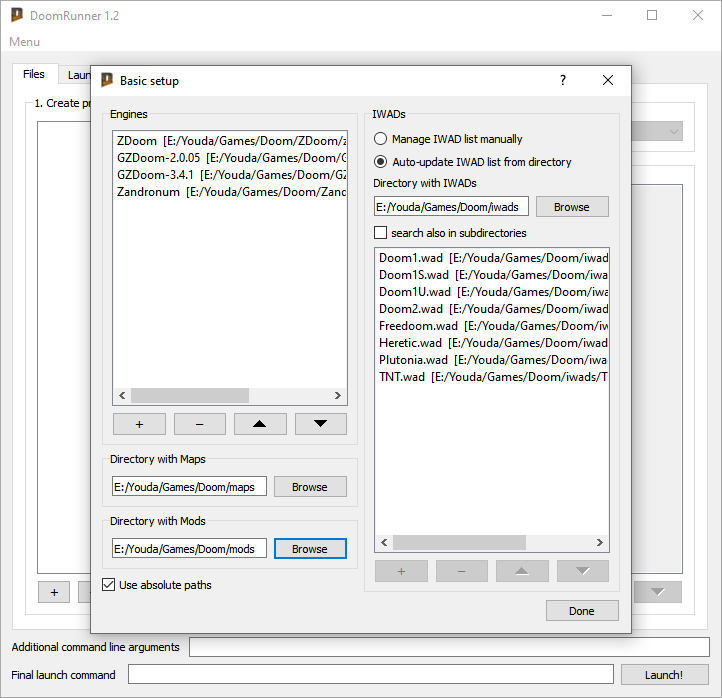
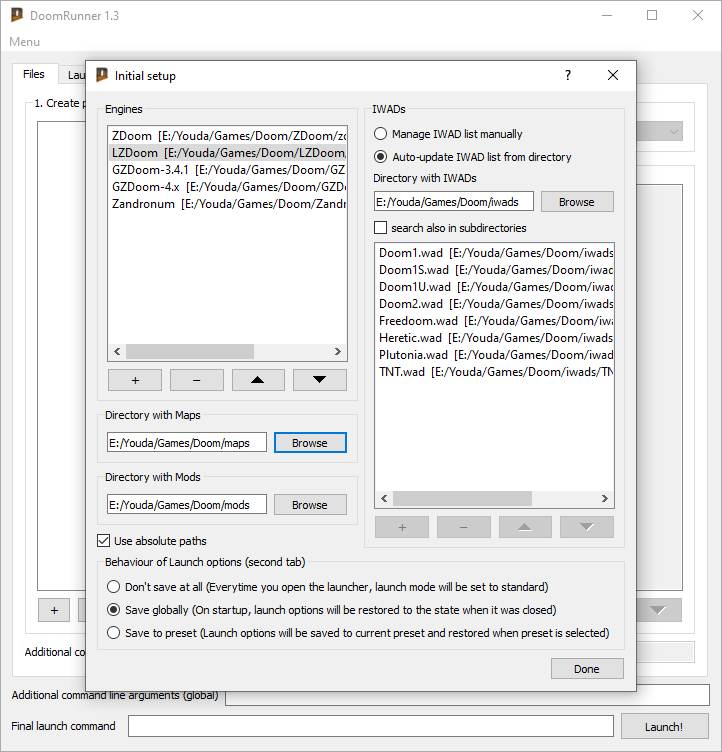
updated screenshots and README

Changed region(s): [[0.0, 0.0, 0.9751, 0.9928], [0.0305, 0.9628, 0.1524, 0.9928]]

diff --git a/README.md b/README.md
@@ -8,11 +8,14 @@ First you perform an initial setup, setting up the paths and adding all your Doo
 Then you create named presets for all your favourite modifications and assign them an engine, an IWAD and mod files.
 ![](Screenshots/2-MainScreen.png "Main screen")
 
-And if you wish to play multiplayer or jump into a map directly, you can do so in the second tab.
+If you wish to play multiplayer or jump into a map directly, you can do so in the second tab.
 ![](Screenshots/3-LaunchOptions.png "Launch options")
 
-You can even configure gameplay flags and compatibility flags.
+You can even configure gameplay flags and compatibility flags, with tooltips from official ZDoom wiki.
 ![](Screenshots/4-DMflags.png "DM flags")
+
+If you extract a .wad file together with an equally named .txt file (for example AV.wad and AV.txt), you can display its content by doubleclicking the wad in the map pack list.
+![](Screenshots/5-MapPackDesc.png "Map pack description")
 
 The map list and IWAD list are automatically updated from selected directory, so everytime you download a new WAD, you don't need to manually add it to the launcher. The mod list supports drag&drop from directory window and internal drag&drop for reordering the files.
 
@@ -21,9 +24,9 @@ The map list and IWAD list are automatically updated from selected directory, so
 
 Pre-compiled executables for different operating systems can be found on [release page](https://github.com/Youda008/DoomRunner/releases)
 
-I provide them only for 64-bit Windows and 64-bit Linux, because in 2019 there shouldn't be anyone still using 32-bit computer. If you really need a 32-bit version, please create an issue.
+32-bit Linux build is currently not supported, because i don't have enough space on disk to install yet another operating system. But you can build it yourself, it shouldn't be hard.
 
-For Windows I only provide statically linked executable, because dynamic one does not make much sense. On Windows installing the Qt DLLs required to run this program is pain in the ass. It's much easier to bundle everything together in a single file. If you really want the dynamic version, because you use lot's of Qt applications and saving those 20MB sounds worth it, create an issue.
+For Windows I only provide statically linked executable, because dynamic one does not make much sense. On Windows installing the Qt DLLs required to run this program is pain in the ass, and it's much easier to bundle everything together in a single file. If you really want the dynamic version, because you use lot's of Qt applications and saving those 20MB sounds worth it, please create an issue.
 
 
 ## How to install and run
